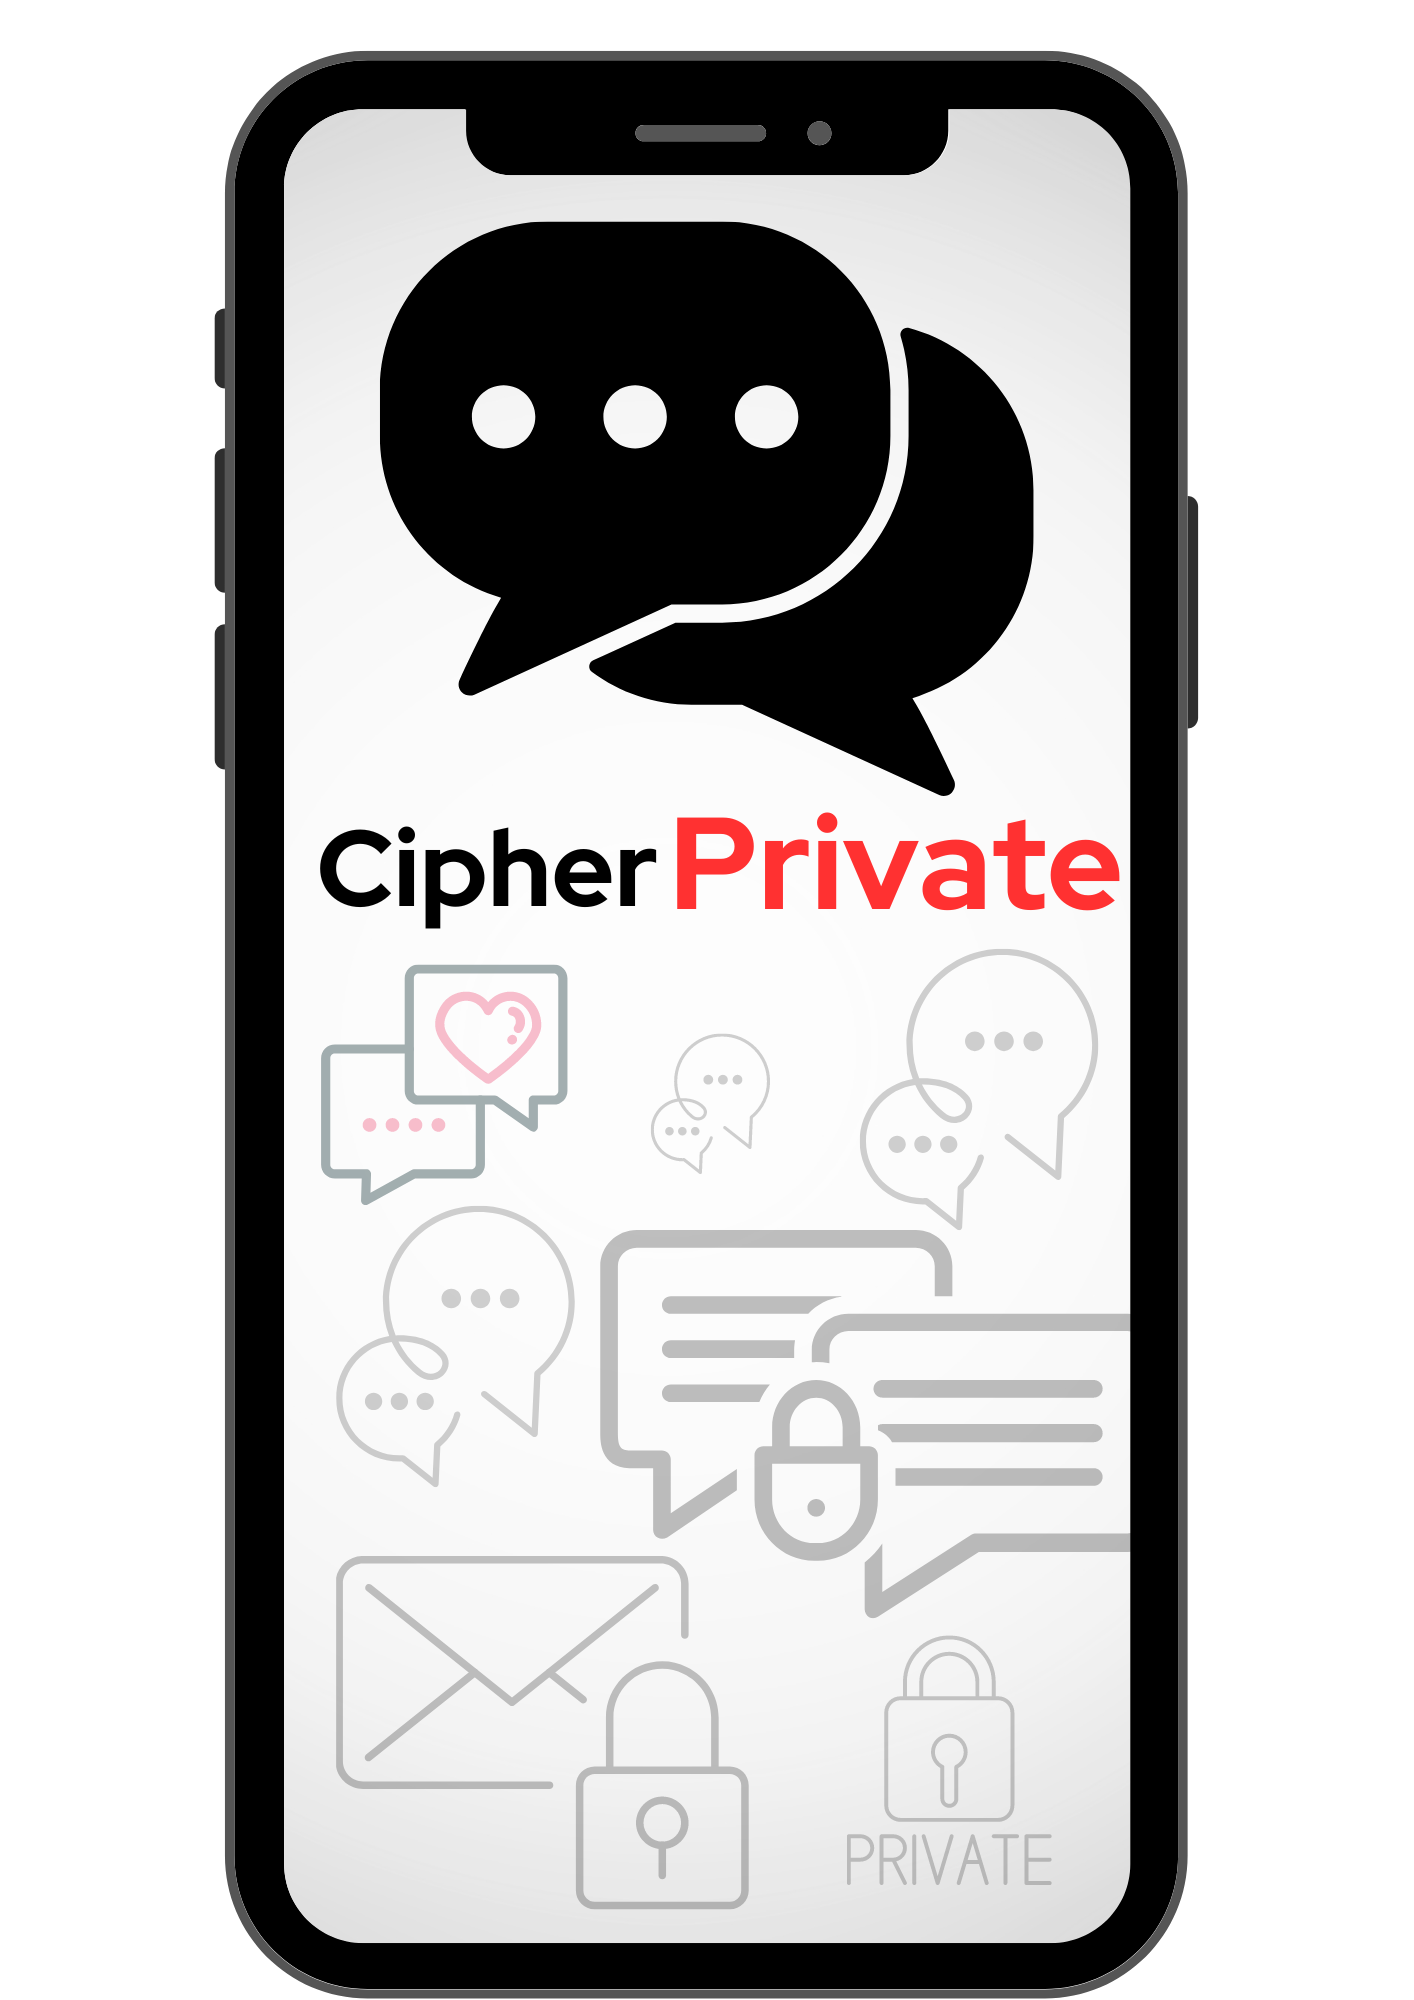
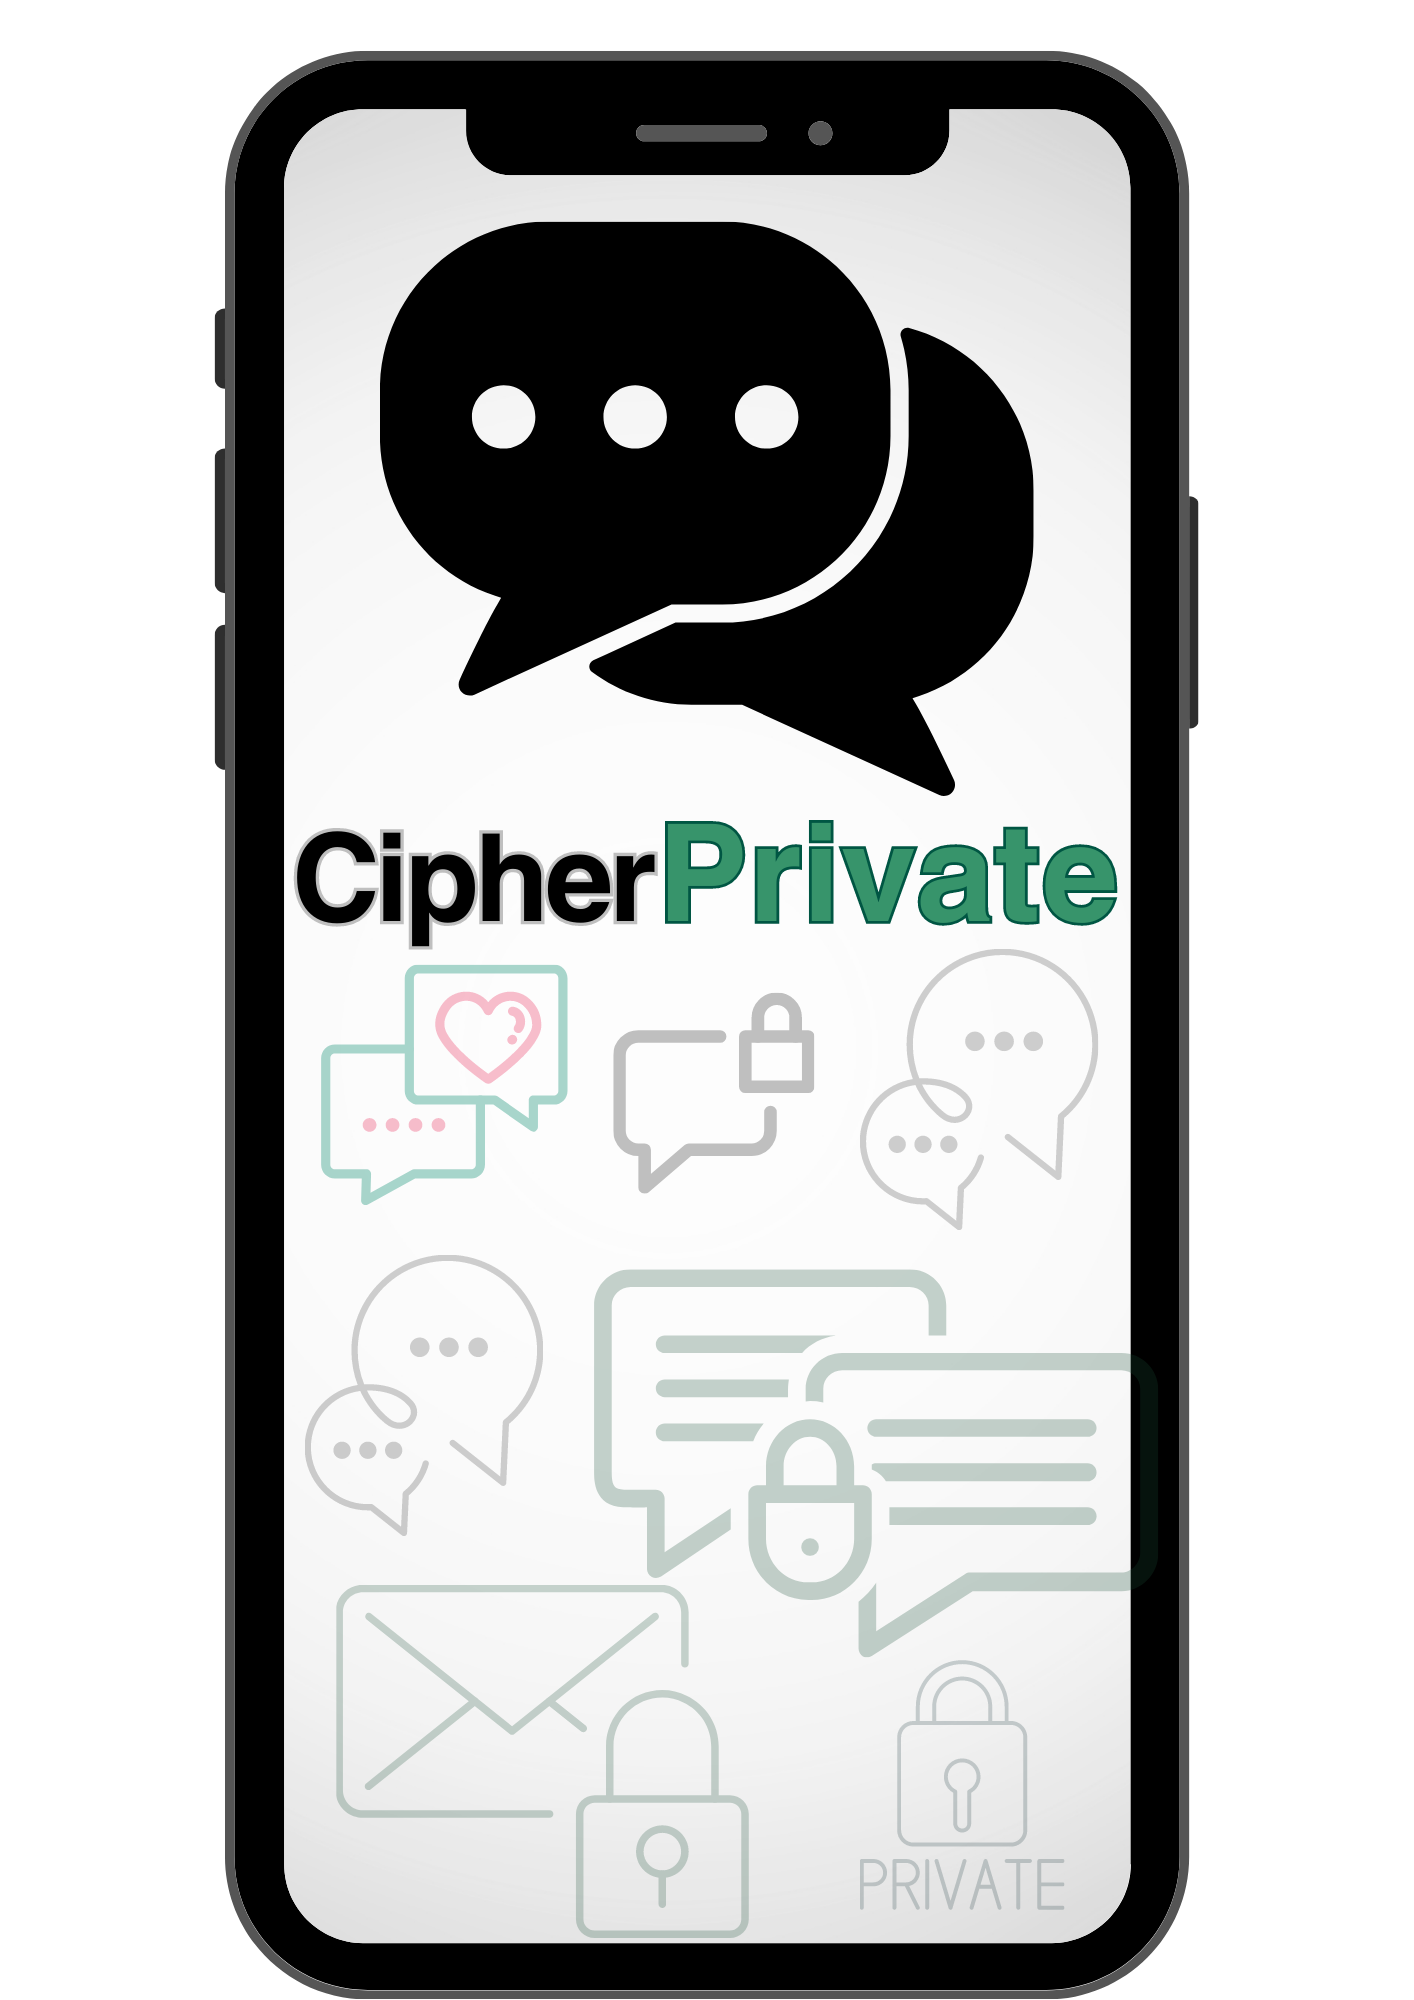
Modificacion de - En HTML agregué el footer con un div -En CSS cambié el color red por un color verde oscuro - en JS creé una funcion para  asegurar que se proporcionen los valores adecuados y necesarios para el correcto funcionamiento de la operación. READMICI -Se modifica el uso de paleta de color

Changed region(s): [[0.1867, 0.403, 0.8091, 1.0], [0.2178, 0.527, 0.2489, 0.589], [0.8091, 0.93, 0.8402, 0.961]]

diff --git a/src/style.css b/src/style.css
@@ -1,79 +1,94 @@
 body {
 	font-family: system-ui, -apple-system, BlinkMacSystemFont, 'Segoe UI', Roboto, Oxygen, Ubuntu, Cantarell, 'Open Sans', 'Helvetica Neue', sans-serif;
 	background-color: #f8f8f8;
-	margin:0; padding: 0;
-    
+	margin: 0;
+	padding: 0;
+
 }
 
 h1 {
 	font-size: 50px;
 	margin-top: 20px;
-    color: white;
-    margin: auto 30%;
-    
+	color: white;
+	margin: auto 30%;
+
 }
 
-h3, .descarga   {
-    font-size: 20px;
-    color: white;
-    margin: 1% 30%;
+h3,
+.descarga {
+	font-size: 20px;
+	color: white;
+	margin: 1% 30%;
 }
 
 h4 {
-    text-align: center;
-    font-family: 'Gill Sans', 'Gill Sans MT', Calibri, 'Trebuchet MS', sans-serif;
-    
+	text-align: center;
+	font-family: 'Gill Sans', 'Gill Sans MT', Calibri, 'Trebuchet MS', sans-serif;
 
 }
+
+h6 {
+	color: #f8f8f8;
+	text-align: center;
+	margin: 0%;
+}
+
 hr {
 	border-style: none;
 	border-top-style: dotted;
-	border-color: red;
+	border-color: grey;
 	border-width: 5px;
 	width: 5%;
-  
-  }
+
+}
+
 .msg {
-    font-size: 60px;
-    color: red;
+	font-size: 60px;
+	color: #37946B;
+	text-shadow: #CCC 0.5px 0 3px;
+	
+
 }
 
 .intro {
 	font-size: 30px;
-	color: red;
+	color: #347365;
+	text-shadow: black 0.5px 0 2px;
 }
 
 
 
-.phone{
-    width: 20%;
-    position: absolute;
-    margin: -15% 5%;
-    
-    
+.phone {
+	width: 20%;
+	position: absolute;
+	margin: -15% 5%;
+
+
 }
-.container1 {
-	
+
+.container1,
+.containerfooter {
+
 	padding: 20px;
 	background-color: black;
-   
-	
+
+
 }
 
-.container2{
-    padding: 20px; 
-    margin: 1% 30%;
+.container2 {
+	padding: 20px;
+	margin: 1% 30%;
 }
 
 p {
-    color: #f8f8f8;
-    margin: auto 30%;
-    
+	color: #f8f8f8;
+	margin: auto 30%;
+
 }
 
 .parrafo2 {
-    color: black;
-    margin: 1% 0 6%;
+	color: black;
+	margin: 1% 0 6%;
 }
 
 label {
@@ -91,7 +106,7 @@ textarea {
 
 button {
 	padding: 10px;
-	background-color: black;
+	background-color: #37946B;
 	color: #fff;
 	border: none;
 	border-radius: 5px;
@@ -101,10 +116,10 @@ button {
 }
 
 button:hover {
-	background-color: #800000;
+	background-color: black;
 }
 
 .title {
 	font-size: 120%;
-	
+
 }

diff --git a/src/cipher.js b/src/cipher.js
@@ -1,6 +1,8 @@
 const cipher = {
   encode: function(offset, string) {
+    validarParametros(offset, string);
     let letra, respuesta = '';
+    offset %= 26;
     const alfabeto = 'ABCDEFGHIJKLMNOPQRSTUVWXYZ';
     // Rotamos el alfabeto [offset] lugares a la derecha
     let cifrado = alfabeto.slice(+offset);
@@ -19,11 +21,12 @@ const cipher = {
   },
   
   decode: function(offset, string) {
+    validarParametros(offset, string);
     let letra, respuesta = '';
+    offset %= 26;
     const alfabeto = 'ABCDEFGHIJKLMNOPQRSTUVWXYZ';
     // Rotamos el alfabeto [offset] lugares a la derecha
     let cifrado = alfabeto.slice(-offset);
-    console.log(cifrado);
     cifrado += alfabeto.slice(0, alfabeto.length - offset);
     // Coge la letra del cifrado según la posición de cada letra en alfabeto
     for (let i = 0; i < string.length; i++) {
@@ -40,15 +43,11 @@ const cipher = {
 
 };
 
-// export default cipher;
+
 
 function encode () {
   const string = document.getElementById("string").value;
   const offset = parseInt(document.getElementById("offset").value);
-  if (isNaN(offset)) {
-    alert("El desplazamiento debe ser un número entre 0 y 26");
-    return;
-  }
   const respuesta = cipher.encode(offset, string);
   document.getElementById("output").value = respuesta;
 }
@@ -56,11 +55,23 @@ function encode () {
 function decode () {
   const string = document.getElementById("string").value;
   const offset = parseInt(document.getElementById("offset").value);
-  if (isNaN(offset)) {
-    alert("El desplazamiento debe ser un número entre 0 y 26");
-    return;
-  }
+
  const respuesta = cipher.decode(offset, string);
   document.getElementById("output").value = respuesta;
 }
 
+
+
+function validarParametros(offset, string) {
+  if (isNaN(offset)) {
+    throw TypeError("Se requiere el Offset");
+  }
+  if (offset < 0) {
+    throw TypeError("El Offset debe ser mayor que 0");
+  }
+  if (!string) {
+    throw TypeError("Se requiere una cadena de carácteres");
+  }
+}
+
+// export default cipher;

diff --git a/src/index.html b/src/index.html
@@ -2,7 +2,7 @@
 <html>
 
 <head>
-  <title>Cifrado César</title>
+  <title>CipherPrivate</title>
   <meta charset="UTF-8">
   <meta name="viewport" content="width=device-width, initial-scale=1.0">
   <link rel="stylesheet" href="style.css">
@@ -38,7 +38,7 @@
     <textarea id="string" name="input" rows="5" cols="100" maxlength="200"
       placeholder="Escribe el texto a codificar aquí"></textarea>
     <label for="offset"> <strong class="title"> ¿Cuantos desplazamientos deseas correr?</strong></label>
-    <input type="number" id="offset" name="offset" min="0" max="26">
+    <input type="number" id="offset" name="offset" min="0" max="300">
 
     <center><button onclick="encode()">   Cifrar   </button>
       <button onclick="decode()">Descifrar</button>
@@ -48,6 +48,13 @@
     <br>
 
   </div>
+
+  <footer>
+    <div class="containerfooter">
+      <h6>Contacto: <a href="mailto:info@cipherprivate.com">info@cipherprivate.com</a></h6>
+      <h6>Derechos de autor © 2023 - Todos los derechos reservados</h6>
+    </div>
+  </footer>
 
 </body>
 <script src="index.js"></script>

diff --git a/READMECI.md b/READMECI.md
@@ -27,7 +27,7 @@ También se incluyen imágenes y un botón de descarga para hacer la experiencia
 
 ## 4. Proceso para la creación de la página web CipherPrivate 
 ### Planificación y diseño: 
-Se define la finalidad del sitio web, su estructura, el tipo de contenido y la experiencia de la usuaria. Se crea prototipos en lapiz y papel para  visualizar el diseño del sitio web definiendole la paleta de colores negro, rojo y blanco que es adecuada para una página web que busca transmitir un sentido de elegancia, exclusividad y el lujo, autoridad, urgencia e importancia, con un toque de emoción y energía. 
+Se define la finalidad del sitio web, su estructura, el tipo de contenido y la experiencia de la usuaria. Se crea prototipos en lapiz y papel para  visualizar el diseño del sitio web definiendole la paleta de colores negro, verde oscuro y blanco que es adecuada para una página web que busca transmitir un sentido de elegancia, exclusividad y el lujo, autoridad, seguridad y confianza. 
 
 ### Desarrollo: 
 Se empieza a codificar combinando diferentes lenguajes de programación, como HTML, CSS, JavaScript  para crear la estructura del sitio web, definir su estilo y crear la funcionalidad de cifrar y descifrar un mensaje utilizando el cifrado César. La usuaria introduce un mensaje y un número de desplazamiento (offset), que indica cuántas posiciones se deben desplazar las letras del alfabeto. La función encrypt() toma el mensaje y el desplazamiento y devuelve el mensaje cifrado. La función decrypt() toma el mensaje cifrado y el desplazamiento y devuelve el mensaje original.
